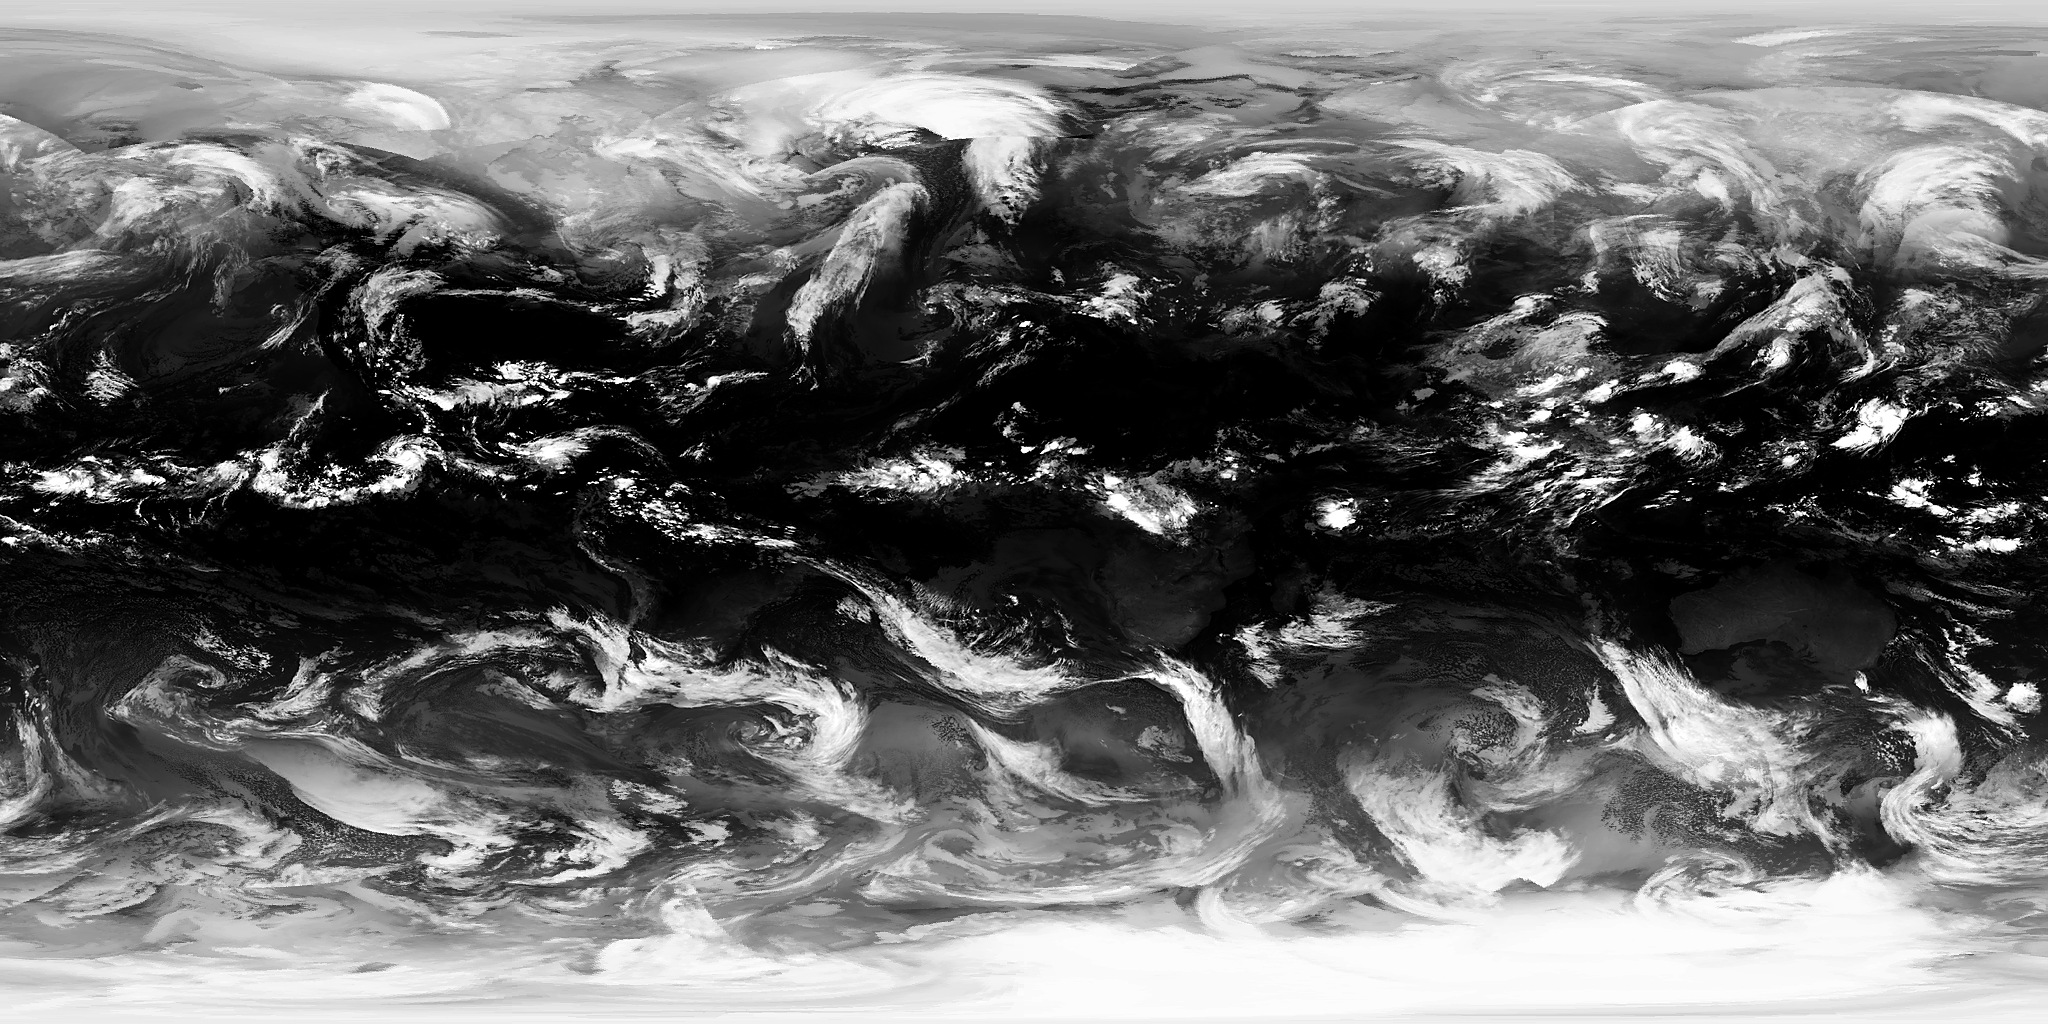
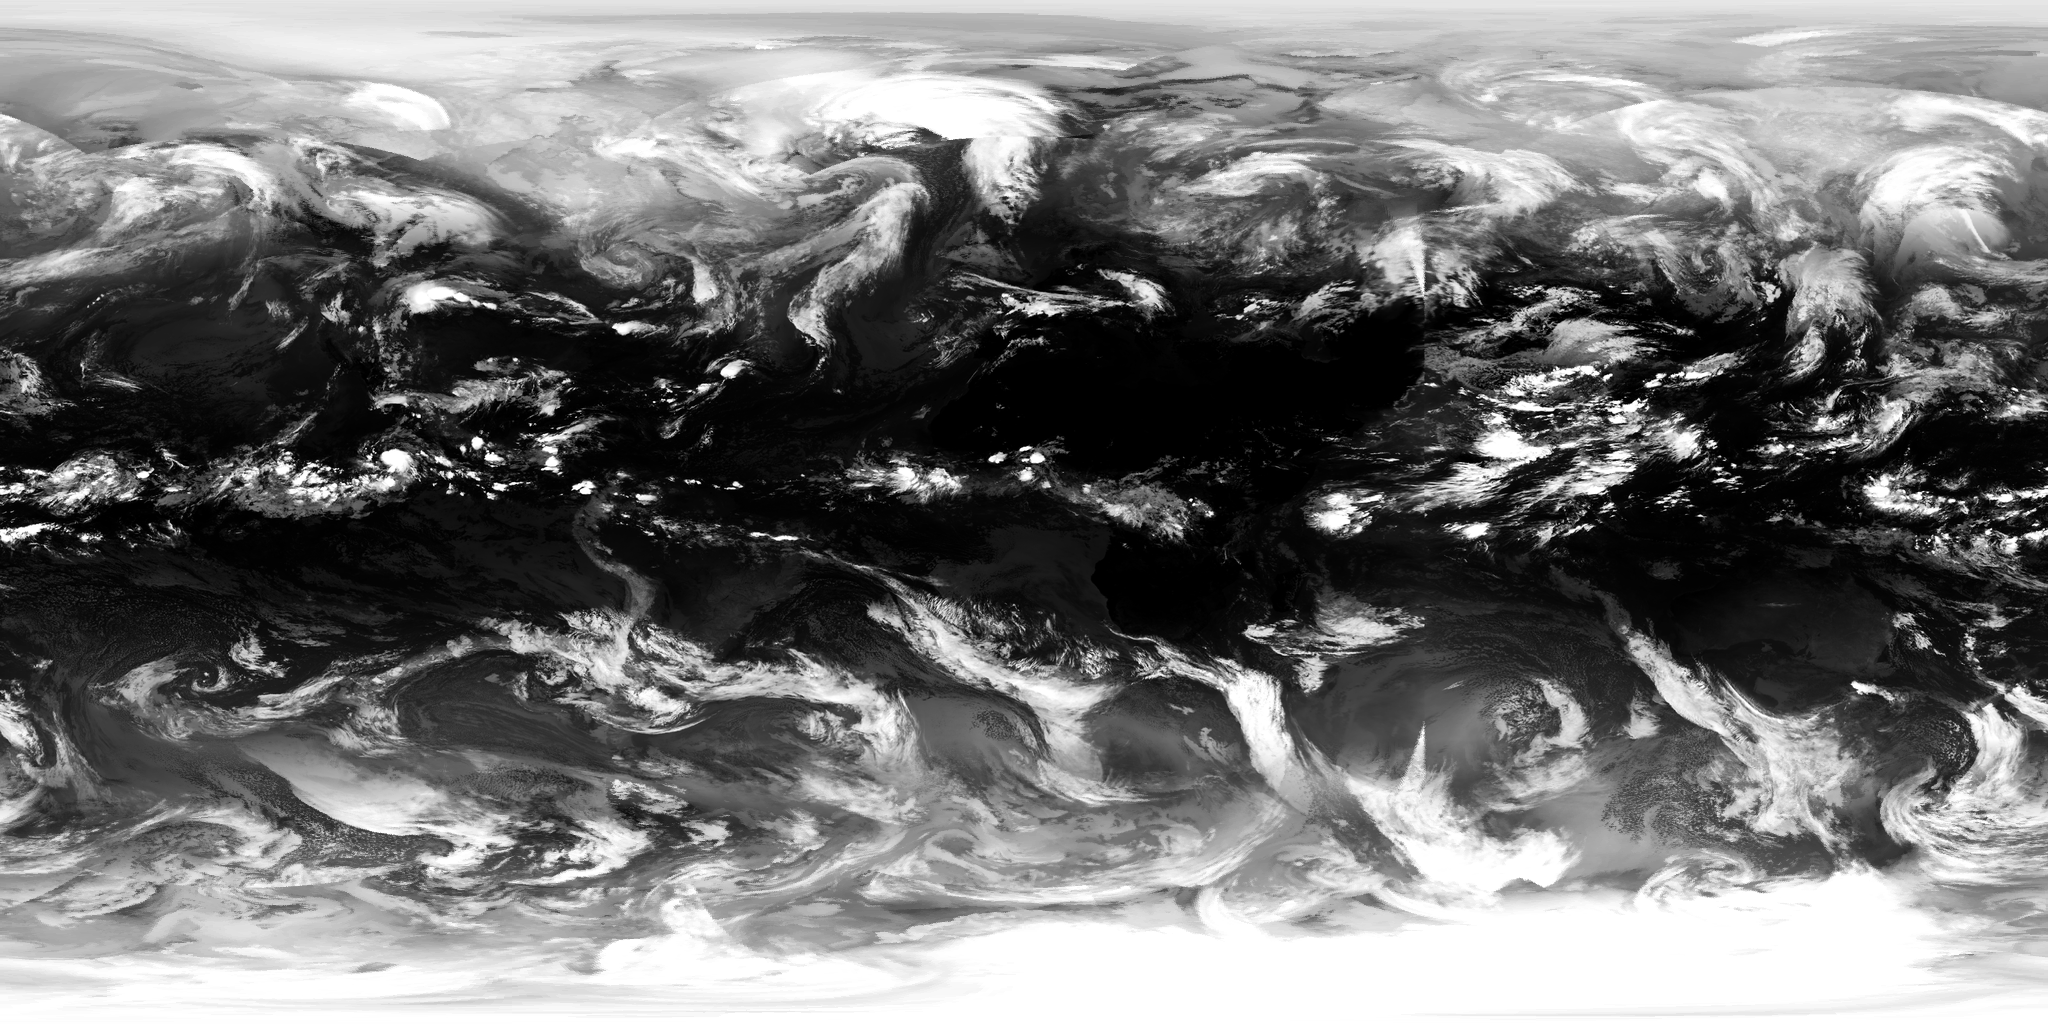
remove cloud halo 20260715_1107

diff --git a/make_clouds.py b/make_clouds.py
@@ -59,7 +59,6 @@ def main():
     blended = gmgsi_full*(1-w_google) + google_adj*w_google
 
     _img = Image.fromarray(np.clip(blended,0,255).astype(np.uint8))
-    _img = _img.filter(ImageFilter.UnsharpMask(radius=1.2, percent=60, threshold=2))
     _img = ImageEnhance.Contrast(_img).enhance(1.0)
     _img.save("clouds_src.png")
     print("saved clouds_src.png")